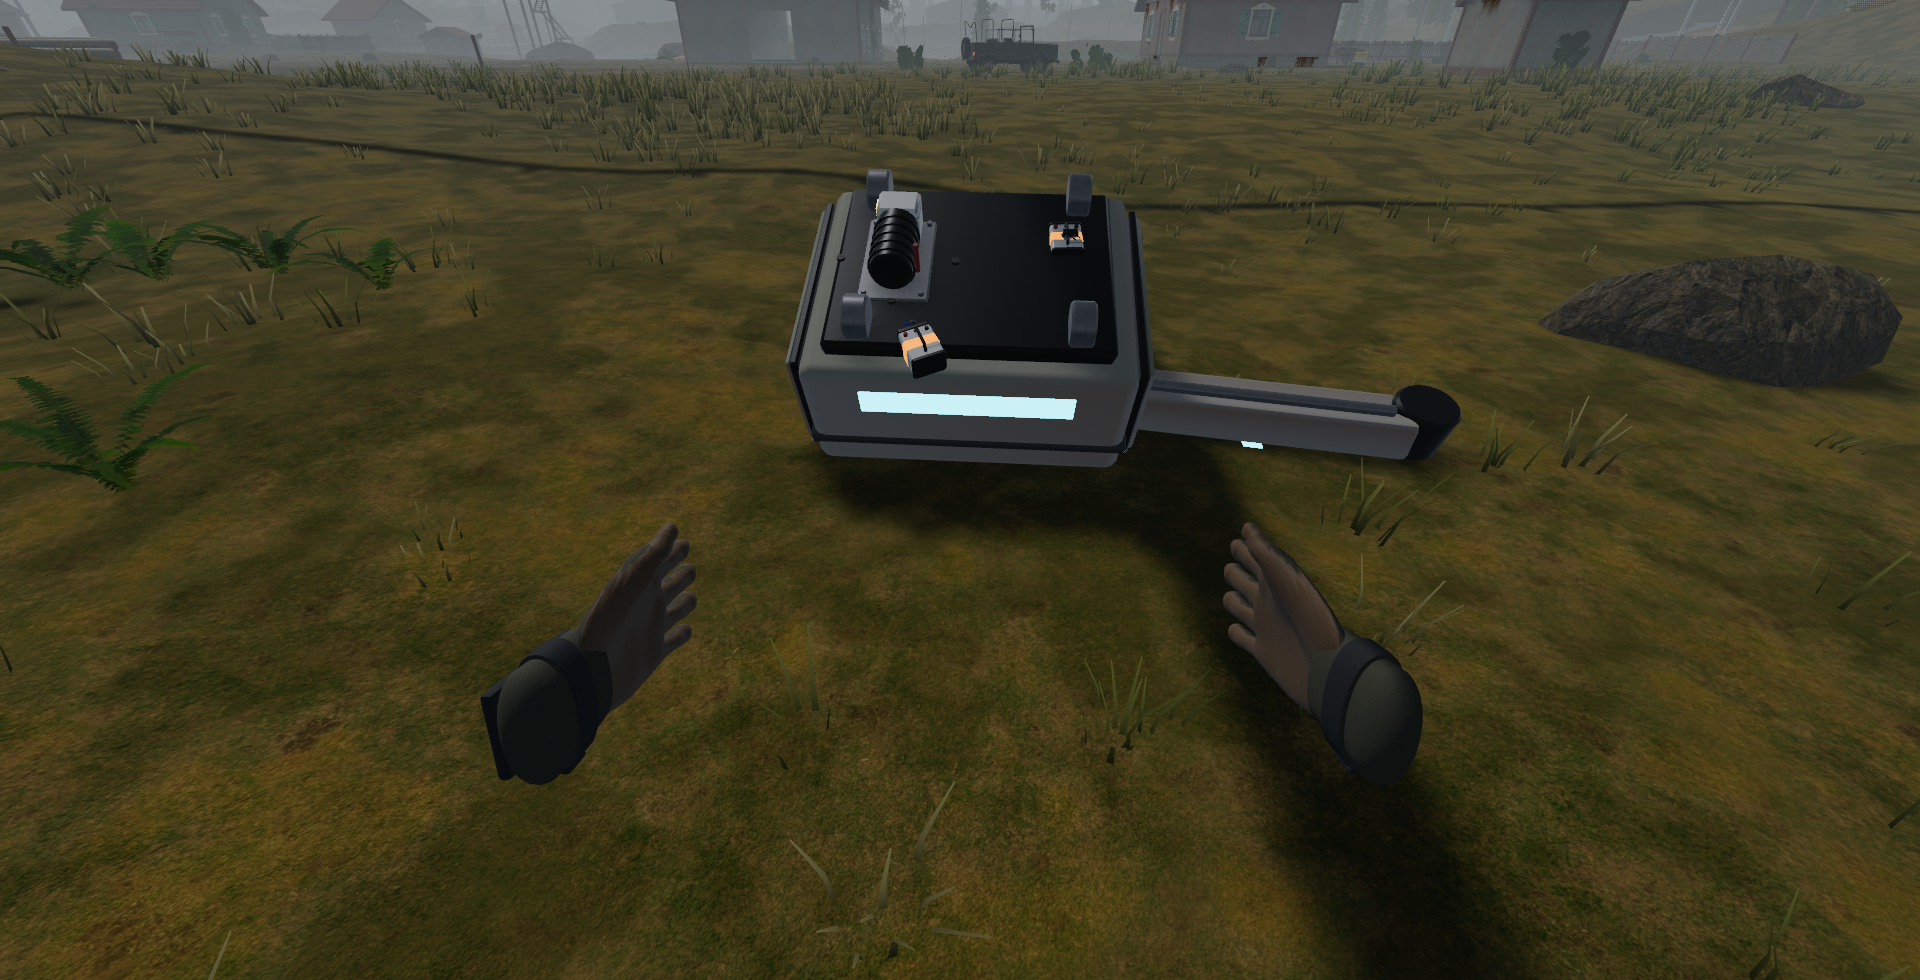
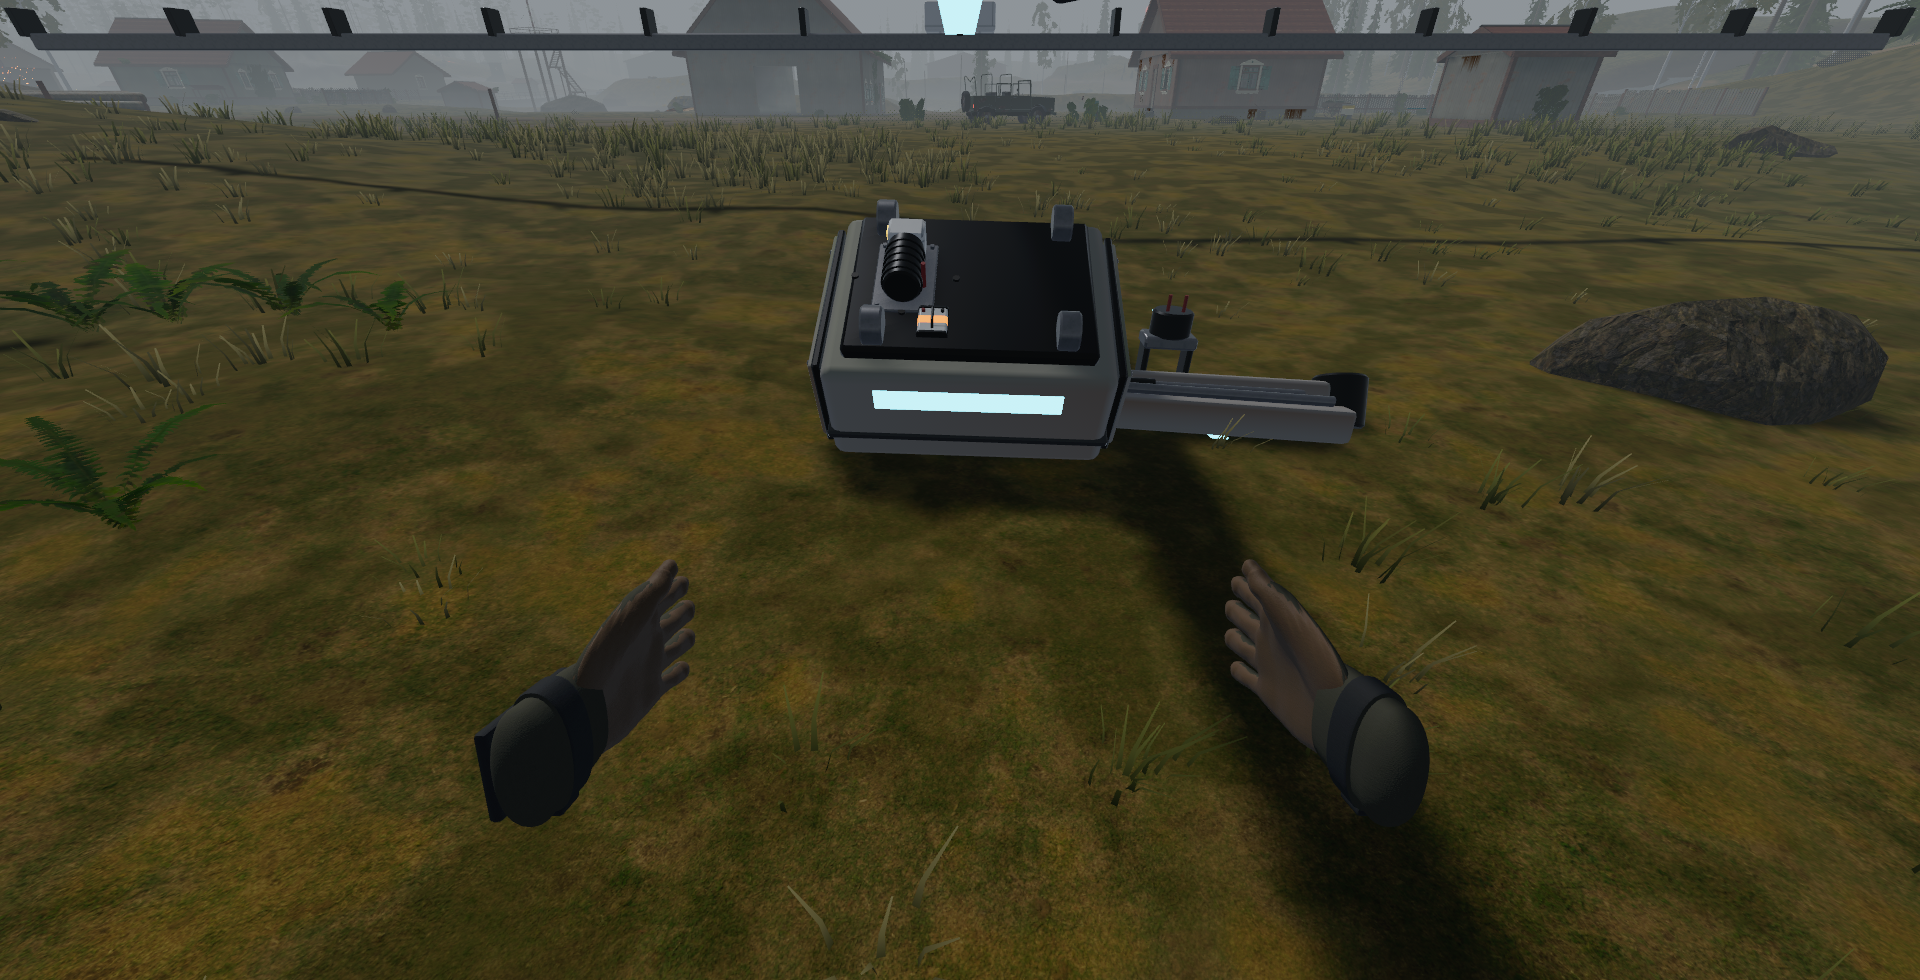
Sorter still: its grab torn off, lying clear
Claude-Session: https://claude.ai/code/session_01UYS29AKspvCeepAatEb31x

diff --git a/docs/robots/WRECK_STILLS.md b/docs/robots/WRECK_STILLS.md
@@ -8,12 +8,13 @@ in hand.
   the grass; a gas valve shows on the crown, seated on the drape
   (`dirigible_look::down_point` + 0.12 m), not floating at the cells' taut
   radius.
-- `wreck_sorter.png`: the sorter down at 3.5 m. Its carriage on the grass,
-  the travel motor bolted on its top beside where the bridge ran, its arm's
-  two pieces lying off its right. **Open:** the grab (`sorter_jaw`) doesn't
-  show at the forearm's end in this render, and two orange-tipped jaw shapes
-  sit on the carriage's top instead. The headless test seats one
-  `sorter_jaw` on the forearm piece; the render differs, under review.
+- `wreck_sorter.png`: the sorter down at 4 m. Its carriage on the grass,
+  the travel motor bolted on its top beside where the bridge ran; its arm
+  folded back under it as it came down one end first. Its grab, its wrist
+  under the carriage out of sight and reach, tore off in the fall and lies
+  clear off the carriage's right, its cut leads up (`sorter_jaw`,
+  `salvage::torn_clear`). **Still open, Robot bodies':** the carriage
+  hovers a little over the grass, and its cyan strip is still lit.
 
     sheet: robots:dirigible!dead,0,16,0   camera 92.9,0,131.9,90,-10
-           robots:sorter!dead,0,3.5,0     camera 92.9,0,131.9,0,-35
+           robots:sorter!dead,0,4,0       camera 92.9,0,131.9,0,-32
